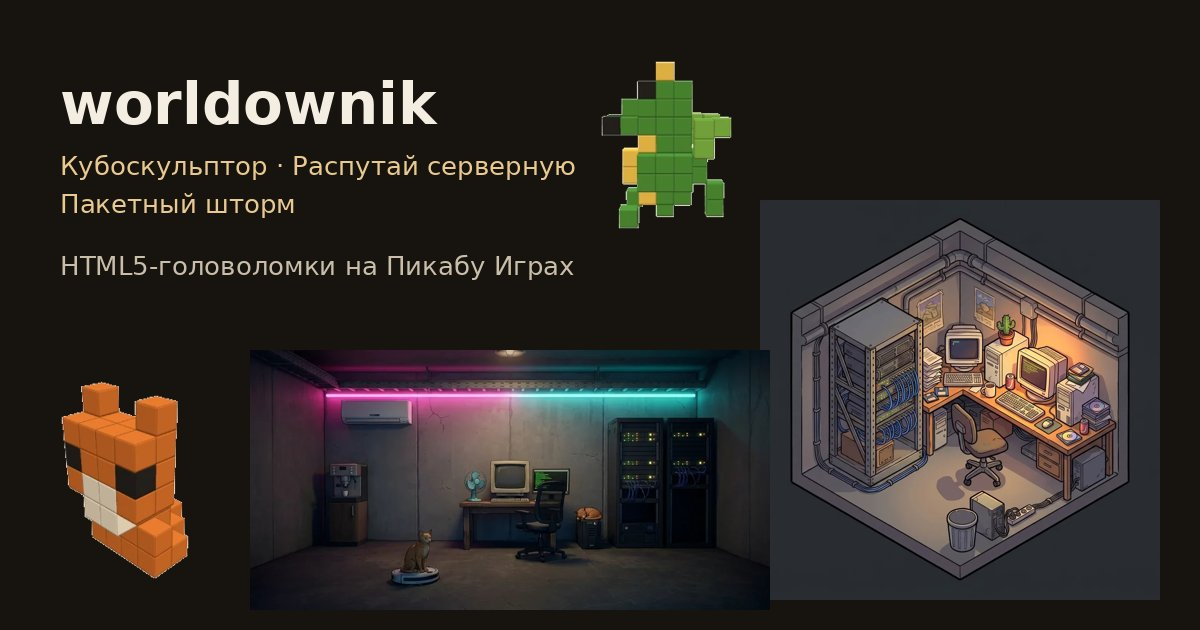
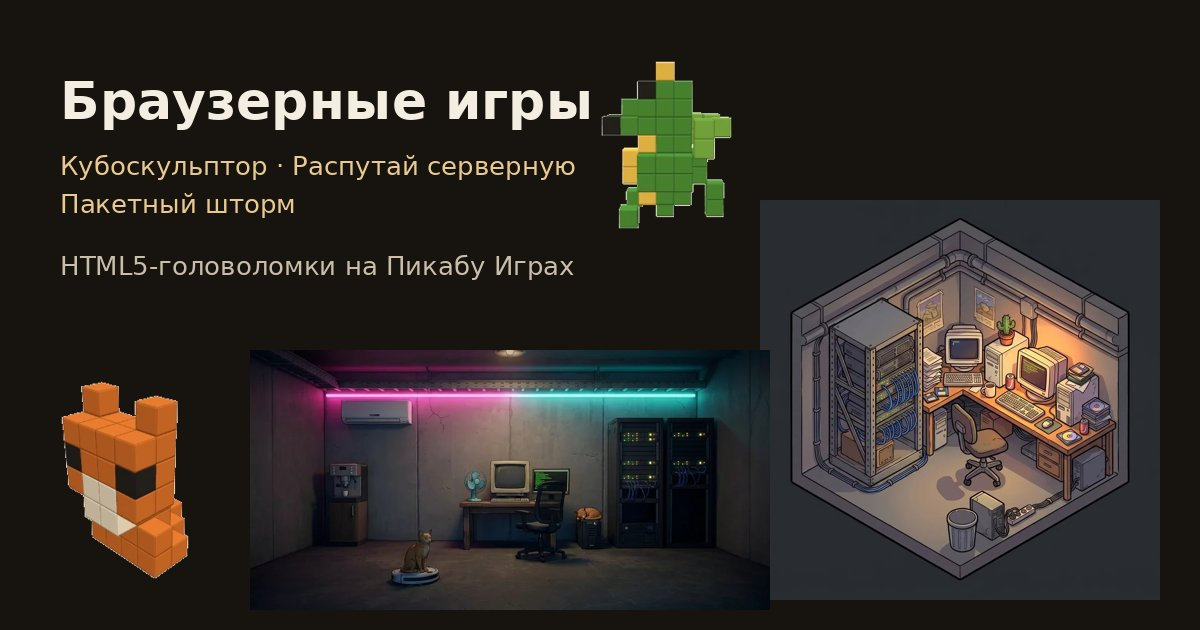
Убрал имя worldownik и ссылки на GitHub
Claude-Session: https://claude.ai/code/session_017psNDiGHQSZHYBDoaCq9Bq

Changed region(s): [[0.0308, 0.1206, 0.4933, 0.2111]]

diff --git a/index.html b/index.html
@@ -3,9 +3,9 @@
 <head>
 <meta charset="utf-8">
 <meta name="viewport" content="width=device-width, initial-scale=1">
-<title>worldownik — браузерные игры</title>
+<title>Браузерные игры: Кубоскульптор, Распутай серверную, Пакетный шторм</title>
 <meta name="description" content="Инди-разработчик HTML5-головоломок для Пикабу Игр: Кубоскульптор, Сисадмин: Распутай серверную, Пакетный шторм.">
-<meta property="og:title" content="worldownik — браузерные игры">
+<meta property="og:title" content="Браузерные игры: Кубоскульптор, Распутай серверную, Пакетный шторм">
 <meta property="og:description" content="Кубоскульптор, Сисадмин: Распутай серверную, Пакетный шторм — HTML5-головоломки, в которые можно играть прямо в браузере.">
 <meta property="og:image" content="https://listvennik.github.io/gamedev/img/og.jpg">
 <meta property="og:type" content="website">
@@ -228,7 +228,7 @@ h1,h2,h3{font-family:var(--display);line-height:1.08;margin:0;letter-spacing:-.0
   <div class="wrap">
     <a class="logo" href="#">
       <svg viewBox="0 0 32 32" aria-hidden="true"><path d="M16 2 29 9v14l-13 7-13-7V9z" fill="#e9dcc4"/><path d="M16 16 29 9v14l-13 7z" fill="#c9b38f"/><path d="M16 16 3 9v14l13 7z" fill="#dccaa8"/><path d="M16 2 29 9l-13 7L3 9z" fill="#1f9e8f"/></svg>
-      worldownik
+      Браузерные игры
     </a>
     <nav aria-label="Разделы">
       <a href="#kubo">Кубоскульптор</a>
@@ -394,10 +394,9 @@ h1,h2,h3{font-family:var(--display);line-height:1.08;margin:0;letter-spacing:-.0
     <p>Что-то сломалось в игре, есть идея или предложение? Напишите на <a class="mail" href="mailto:listvenikk@yandex.ru">listvenikk@yandex.ru</a>. Читаю всё, на баг-репорты отвечаю в первую очередь.</p>
     <div class="links">
       <a href="mailto:listvenikk@yandex.ru?subject=%D0%98%D0%B3%D1%80%D1%8B"><svg viewBox="0 0 24 24" fill="none" stroke="currentColor" stroke-width="2" stroke-linecap="round" stroke-linejoin="round" aria-hidden="true"><rect x="3" y="5" width="18" height="14" rx="2"/><path d="m3 7 9 6 9-6"/></svg>Написать на почту</a>
-      <a href="https://github.com/Listvennik"><svg viewBox="0 0 24 24" fill="currentColor" aria-hidden="true"><path d="M12 .5a11.5 11.5 0 0 0-3.64 22.41c.58.11.79-.25.79-.56v-2c-3.2.7-3.88-1.36-3.88-1.36-.52-1.33-1.28-1.69-1.28-1.69-1.05-.71.08-.7.08-.7 1.16.08 1.77 1.19 1.77 1.19 1.03 1.77 2.7 1.26 3.36.96.1-.75.4-1.26.73-1.55-2.56-.29-5.25-1.28-5.25-5.69 0-1.26.45-2.29 1.19-3.1-.12-.29-.52-1.46.11-3.05 0 0 .97-.31 3.17 1.18a11 11 0 0 1 5.77 0c2.2-1.49 3.17-1.18 3.17-1.18.63 1.59.23 2.76.11 3.05.74.81 1.19 1.84 1.19 3.1 0 4.42-2.7 5.39-5.27 5.68.41.36.78 1.06.78 2.14v3.17c0 .31.21.68.8.56A11.5 11.5 0 0 0 12 .5Z"/></svg>GitHub</a>
     </div>
     <div class="foot">
-      <span>© <span id="year">2026</span> worldownik</span>
+      <span>© <span id="year">2026</span></span>
       <span>Все игры сделаны одним разработчиком</span>
     </div>
   </div>

diff --git a/README.md b/README.md
@@ -1,4 +1,4 @@
-# worldownik — сайт-визитка
+# Сайт-визитка с играми
 
 Статический сайт с играми: Кубоскульптор, Сисадмин: Распутай серверную, Пакетный шторм.
 Адрес: https://listvennik.github.io/gamedev/
